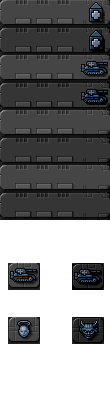
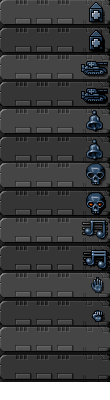
Improve UI

diff --git a/src/ui/MenuPanel.ts b/src/ui/MenuPanel.ts
@@ -4,6 +4,9 @@ import {ButtonBuilder} from "./ButtonBuilder";
 
 export class MenuPanel
 {
+    private soundOn: boolean = true;
+    private soundButton: Phaser.Button;
+
     constructor(group: Phaser.Group, panelWith: number)
     {
         const screenWidth = group.game.width;
@@ -14,19 +17,61 @@ export class MenuPanel
 
         const buttonBuilder = new ButtonBuilder();
 
+        const buttonHeight = 27;
+        const verticalMargin = 3;
         const buttonWidth = 110;
         const buttonMargin = 7;
         const marginX = 7;
-        let positionX = screenWidth - panelWith + marginX;
+        const leftPositionX = screenWidth - panelWith + marginX;
+        let positionX = leftPositionX;
         positionY += 30;
-        let callback = function() { console.log('mute'); };
-        buttonBuilder.addButton(group, positionX, positionY, 0, 'Mute', callback);
+        let frame = 4;
+        const myself = this;
+        let callback = function() {
+            console.log('switch');
+            myself.soundOn = !myself.soundOn;
+        };
+        this.soundButton = buttonBuilder.addButton(group, positionX, positionY, frame, 'Sound', callback);
 
         positionX += buttonWidth + buttonMargin;
-        callback = function() { console.log('restart'); };
-        buttonBuilder.addButton(group, positionX, positionY, 2, 'Restart', callback);
+        callback = function() {
+            console.log('switch');
+        };
+        buttonBuilder.addButton(group, positionX, positionY, 8, 'Music', callback);
+
+        positionY += buttonHeight + verticalMargin;
+        positionX = leftPositionX;
+        const game = group.game;
+        callback = function() {
+            game.paused = !game.paused;
+        };
+        buttonBuilder.addButton(group, positionX, positionY, 10, 'Pause', callback);
+
+        positionX += buttonWidth + buttonMargin;
+        callback = function() {
+            game.state.start('Play');
+        };
+        buttonBuilder.addButton(group, positionX, positionY, 6, 'Restart', callback);
 
         // TODO: enable / disable button
+    }
 
+    public update()
+    {
+        if (this.soundOn) {
+            this.enableButton(this.soundButton);
+        } else {
+            this.disableButton(this.soundButton);
+        }
+    }
+
+    private enableButton(button: Phaser.Button)
+    {
+        button.setFrames(4, 3, 4);
+    }
+
+    private disableButton(button: Phaser.Button)
+    {
+        button.setFrames(6, 5, 6);
     }
 }

diff --git a/src/game/state/Preload.ts b/src/game/state/Preload.ts
@@ -3,6 +3,7 @@ export default class Preload extends Phaser.State {
 
     public preload ()
     {
+        this.loadAudio()
         this.loadTilemap();
         this.loadTileImages();
         this.loadGameImages();
@@ -12,6 +13,12 @@ export default class Preload extends Phaser.State {
     public create ()
     {
         this.game.state.start('Play'); // TODO: shortcuting "Menu" state :)
+    }
+
+    private loadAudio()
+    {
+        //  Firefox doesn't support mp3 files, so use ogg ? @see https://www.phaser.io/examples/v2/audio/pause-and-resume
+        // this.game.load.audio('music', ['assets/audio/bodenstaendig_2000_in_rock_4bit.mp3', 'assets/audio/bodenstaendig_2000_in_rock_4bit.ogg']);
     }
 
     private loadTilemap()
@@ -67,7 +74,6 @@ export default class Preload extends Phaser.State {
         this.load.spritesheet('Button', 'assets/interface/Button.png', 94, 27);
         this.load.spritesheet('BuyButton', 'assets/interface/BuyButton.png', 140, 27);
         this.load.spritesheet('OrderButton', 'assets/interface/OrderButton.png', 110, 27);
-        this.load.image('UnitBackground', 'assets/interface/UnitSelectionBackground.png');
         this.load.image('HealthJauge', 'assets/interface/HealthJauge.png');
     }
 }

diff --git a/src/game/state/Play.ts b/src/game/state/Play.ts
@@ -170,6 +170,9 @@ export default class Play extends Phaser.State
             const knownTiles = this.players.human().getArmy().getSharedMemory().getKnownTiles();
             this.fogOfWar.apply(this.bitmap, knownTiles);
         }
+
+        // const music = this.game.add.audio('music');
+        // music.play();
     }
 
     public update()
